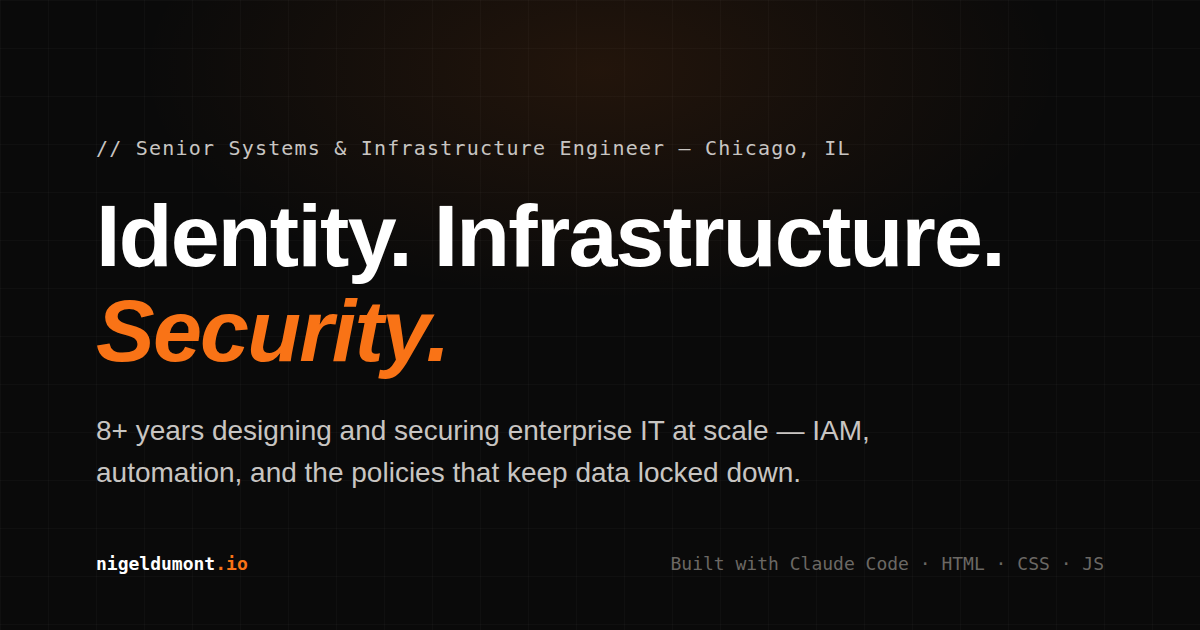
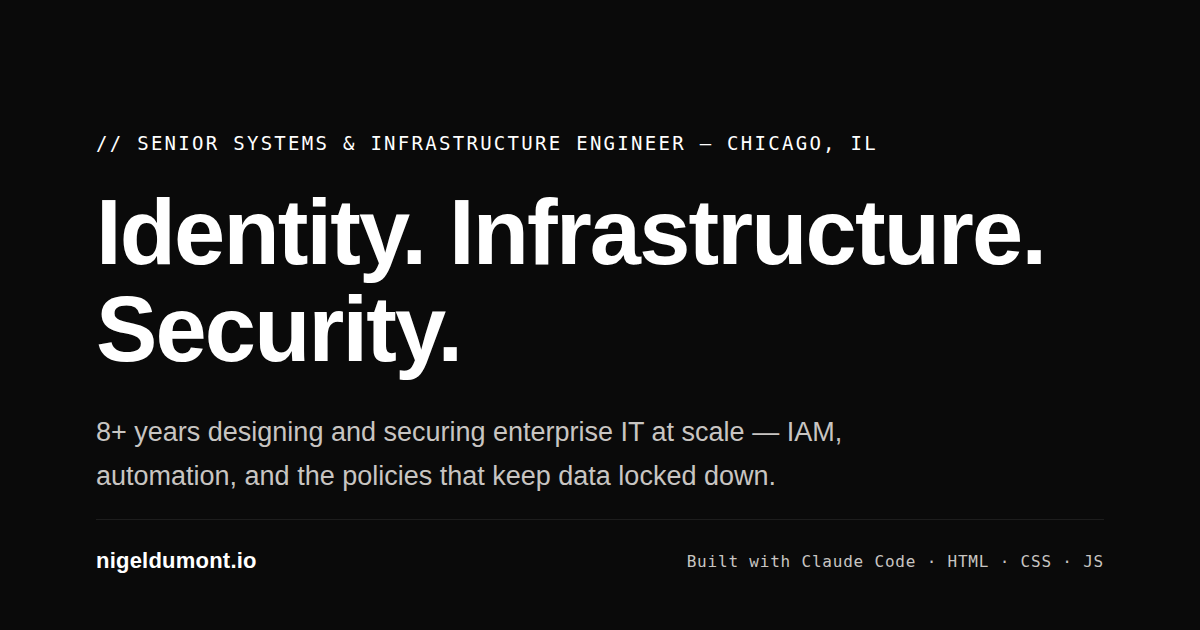
Remove project thumbnails, monochrome social card, align nav to content grid
- Revert screenshot thumbnails on project cards; delete preview images
- Regenerate og-card.png in pure site branding (monochrome, no orange)
- Favicon dot changed from orange to neutral gray
- Nav content now sits in the same 1100px column as the rest of the page,
  so the logo and theme toggle align with the hero and footer edges

Claude-Session: https://claude.ai/code/session_018G54t9JrTmAijpe9mP6uMb

diff --git a/index.html b/index.html
@@ -70,13 +70,19 @@
     position: fixed;
     top: 0; left: 0; right: 0;
     z-index: 100;
-    display: flex;
-    justify-content: space-between;
-    align-items: center;
-    padding: 1.25rem 2.5rem;
+    padding: 1.25rem 0;
     background: var(--nav-bg);
     backdrop-filter: blur(12px);
     border-bottom: 0.5px solid var(--border);
+  }
+
+  .nav-inner {
+    max-width: 1100px;
+    margin: 0 auto;
+    padding: 0 2.5rem;
+    display: flex;
+    justify-content: space-between;
+    align-items: center;
   }
 
   .nav-brand { display: flex; flex-direction: column; gap: 3px; }
@@ -547,23 +553,6 @@
   }
 
   .project-card:hover { background: var(--surface2); }
-
-  .project-shot {
-    display: block;
-    margin: -2rem -2rem 0.5rem;
-    overflow: hidden;
-    border-bottom: 0.5px solid var(--border);
-  }
-  .project-shot img {
-    display: block;
-    width: 100%;
-    aspect-ratio: 16 / 10;
-    object-fit: cover;
-    object-position: top;
-    transition: transform 0.3s ease;
-  }
-  .project-card:hover .project-shot img { transform: scale(1.02); }
-
   .project-type { font-family: var(--mono); font-size: 10px; color: var(--accent2); letter-spacing: 0.1em; text-transform: uppercase; }
   .project-name { font-size: 1rem; font-weight: 500; line-height: 1.3; }
   .project-desc { font-size: 13px; color: var(--muted); line-height: 1.65; flex: 1; }
@@ -828,7 +817,8 @@
   .log-repo:hover { color: var(--text); }
 
   @media (max-width: 640px) {
-    nav { padding: 1rem 1.25rem; }
+    nav { padding: 1rem 0; }
+    .nav-inner { padding: 0 1.25rem; }
     .nav-links { display: none; }
     .nav-built { display: none; }
     .nav-tool-link { font-size: 11px; padding: 4px 8px; }
@@ -845,21 +835,23 @@
 <body>
 
 <nav>
-  <div class="nav-brand">
-    <a class="nav-logo" href="#hero">nigeldumont.io</a>
-    <span class="nav-built">Built with Claude Code &middot; HTML &middot; CSS &middot; JS</span>
-  </div>
-  <div class="nav-right">
-    <ul class="nav-links">
-      <li><a href="#skills">skills</a></li>
-      <li><a href="#work">work</a></li>
-      <li><a href="#projects">projects</a></li>
-      <li><a href="work-samples.html">samples</a></li>
-      <li><a href="https://dumont94.github.io/design-portfolio/" target="_blank">design</a></li>
-      <li><a href="#contact">contact</a></li>
-    </ul>
-    <a class="nav-tool-link" href="https://dumont94.github.io/nigeldumont.github.io/network-builder/app/" target="_blank">network builder tool <span class="nav-new-badge">new</span></a>
-    <button class="theme-toggle" id="theme-toggle" aria-label="Toggle light/dark mode">☀ light</button>
+  <div class="nav-inner">
+    <div class="nav-brand">
+      <a class="nav-logo" href="#hero">nigeldumont.io</a>
+      <span class="nav-built">Built with Claude Code &middot; HTML &middot; CSS &middot; JS</span>
+    </div>
+    <div class="nav-right">
+      <ul class="nav-links">
+        <li><a href="#skills">skills</a></li>
+        <li><a href="#work">work</a></li>
+        <li><a href="#projects">projects</a></li>
+        <li><a href="work-samples.html">samples</a></li>
+        <li><a href="https://dumont94.github.io/design-portfolio/" target="_blank">design</a></li>
+        <li><a href="#contact">contact</a></li>
+      </ul>
+      <a class="nav-tool-link" href="https://dumont94.github.io/nigeldumont.github.io/network-builder/app/" target="_blank">network builder tool <span class="nav-new-badge">new</span></a>
+      <button class="theme-toggle" id="theme-toggle" aria-label="Toggle light/dark mode">☀ light</button>
+    </div>
   </div>
 </nav>
 
@@ -1132,9 +1124,6 @@
   <p class="section-label">// Side projects</p>
   <div class="projects-grid">
     <div class="project-card">
-      <a class="project-shot" href="https://dumont94.github.io/nigeldumont.github.io/network-builder/app/" target="_blank" aria-label="Open the Network Infrastructure Builder">
-        <img src="preview-network-builder.png" alt="Network Infrastructure Builder — dark-themed questionnaire app" loading="lazy">
-      </a>
       <p class="project-type">Network infrastructure builder</p>
       <p class="project-name">Network Infrastructure Builder — Live Tool</p>
       <p class="project-desc">Routes business owners through three build paths (Budget DIY, Enterprise DIY, Fully Outsourced) across ten components—firewall, switches, VLANs, SD-WAN, monitoring—with product recommendations, pricing, and config steps.</p>
@@ -1150,9 +1139,6 @@
       </div>
     </div>
     <div class="project-card">
-      <a class="project-shot" href="world-cup-2026.html" target="_blank" aria-label="Open the 2026 World Cup dashboard">
-        <img src="preview-world-cup.png" alt="2026 FIFA World Cup dashboard — all-time scorers and Golden Boot race" loading="lazy">
-      </a>
       <p class="project-type">Sports data tracker</p>
       <p class="project-name">2026 FIFA World Cup — Live WebApp</p>
       <p class="project-desc">Full-stack dashboard tracking tournament data: Messi's all-time record, Golden Boot standings, group results, and Round of 32 bracket with live scoring.</p>

diff --git a/work-samples.html b/work-samples.html
@@ -44,7 +44,8 @@
   html { scroll-behavior: smooth; }
   body { background: var(--bg); color: var(--text); font-family: var(--sans); font-size: 16px; line-height: 1.6; -webkit-font-smoothing: antialiased; }
 
-  nav { position: fixed; top: 0; left: 0; right: 0; z-index: 100; display: flex; justify-content: space-between; align-items: center; padding: 1.25rem 2.5rem; background: var(--nav-bg); backdrop-filter: blur(12px); border-bottom: 0.5px solid var(--border); }
+  nav { position: fixed; top: 0; left: 0; right: 0; z-index: 100; padding: 1.25rem 0; background: var(--nav-bg); backdrop-filter: blur(12px); border-bottom: 0.5px solid var(--border); }
+  .nav-inner { max-width: 1100px; margin: 0 auto; padding: 0 2.5rem; display: flex; justify-content: space-between; align-items: center; }
   .nav-brand { display: flex; flex-direction: column; gap: 3px; }
   .nav-built { font-family: var(--mono); font-size: 10px; color: var(--muted); letter-spacing: 0.05em; }
   .nav-logo { font-family: var(--sans); font-size: 15px; font-weight: 600; color: var(--text); letter-spacing: 0.01em; text-decoration: none; }
@@ -108,7 +109,8 @@
   .footer-links a:hover { color: var(--text); }
 
   @media (max-width: 640px) {
-    nav { padding: 1rem 1.25rem; }
+    nav { padding: 1rem 0; }
+    .nav-inner { padding: 0 1.25rem; }
     .nav-links { display: none; }
     .nav-built { display: none; }
     .nav-tool-link { font-size: 11px; padding: 4px 8px; }
@@ -120,20 +122,22 @@
 <body>
 
 <nav>
-  <div class="nav-brand">
-    <a class="nav-logo" href="index.html">nigeldumont.io</a>
-    <span class="nav-built">Built with Claude Code &middot; HTML &middot; CSS &middot; JS</span>
-  </div>
-  <div class="nav-right">
-    <ul class="nav-links">
-      <li><a href="index.html#skills">skills</a></li>
-      <li><a href="index.html#work">work</a></li>
-      <li><a href="index.html#projects">projects</a></li>
-      <li><a href="work-samples.html" class="active">samples</a></li>
-      <li><a href="index.html#contact">contact</a></li>
-    </ul>
-    <a class="nav-tool-link" href="https://dumont94.github.io/nigeldumont.github.io/network-builder/app/" target="_blank">network builder tool <span class="nav-new-badge">new</span></a>
-    <button class="theme-toggle" id="theme-toggle" aria-label="Toggle light/dark mode">&#9728; light</button>
+  <div class="nav-inner">
+    <div class="nav-brand">
+      <a class="nav-logo" href="index.html">nigeldumont.io</a>
+      <span class="nav-built">Built with Claude Code &middot; HTML &middot; CSS &middot; JS</span>
+    </div>
+    <div class="nav-right">
+      <ul class="nav-links">
+        <li><a href="index.html#skills">skills</a></li>
+        <li><a href="index.html#work">work</a></li>
+        <li><a href="index.html#projects">projects</a></li>
+        <li><a href="work-samples.html" class="active">samples</a></li>
+        <li><a href="index.html#contact">contact</a></li>
+      </ul>
+      <a class="nav-tool-link" href="https://dumont94.github.io/nigeldumont.github.io/network-builder/app/" target="_blank">network builder tool <span class="nav-new-badge">new</span></a>
+      <button class="theme-toggle" id="theme-toggle" aria-label="Toggle light/dark mode">&#9728; light</button>
+    </div>
   </div>
 </nav>
 